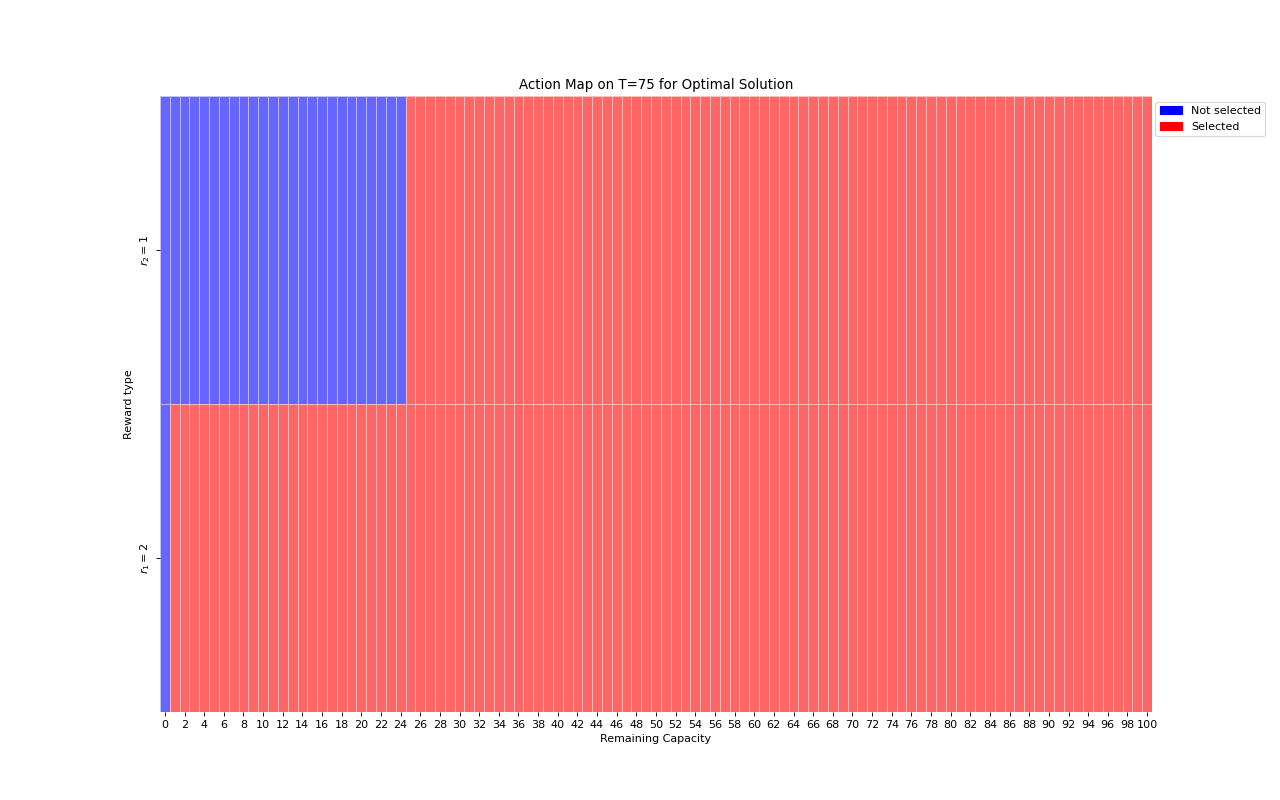
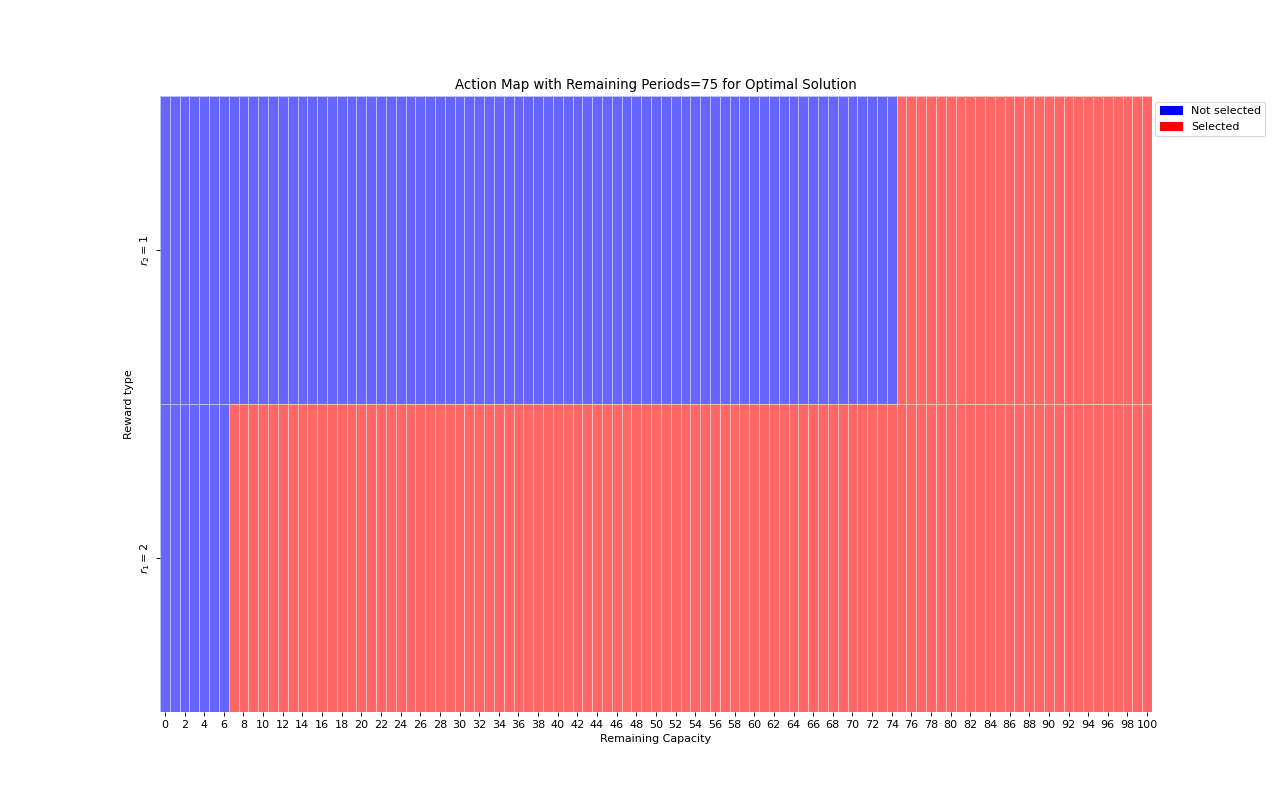
correction of heat maps for 2 types

Changed region(s): [[0.3125, 0.0938, 0.7188, 0.5312], [0.125, 0.5, 0.1875, 0.9062]]

diff --git a/Code/simulations_2_types.py b/Code/simulations_2_types.py
@@ -164,7 +164,7 @@ if __name__ == '__main__':
         sns.heatmap(df.T, cmap='bwr', cbar=False, annot=False, linewidths=0.5, alpha=0.6)
         plt.xlabel('Remaining Capacity')
         plt.ylabel('Reward type')
-        plt.title('Action Map on T='+str(t)+' for Optimal Solution')
+        plt.title('Action Map with Remaining Periods='+str(100-t)+' for Optimal Solution')
 
         import matplotlib.patches as mpatches
         min_patch = mpatches.Patch(color='blue', label='Not selected')
@@ -174,7 +174,7 @@ if __name__ == '__main__':
         path = 'C:/Users/danie/Documents/Multi-Secretary-Dyn-Approx/Figures/2_types/action_map/optimal'
         if not os.path.exists(path):
             os.makedirs(path)
-        plt.savefig(path+'/action_map_'+str(t)+'.png')
+        plt.savefig(path+'/action_map_'+str(100-t)+'.png')
         plt.clf()
         
         for dix, win in enumerate(windows_plot):   
@@ -184,7 +184,7 @@ if __name__ == '__main__':
             sns.heatmap(df.T, cmap='bwr', cbar=False, annot=False, linewidths=0.5, alpha=0.6)
             plt.xlabel('Remaining Capacity')
             plt.ylabel('Reward type')
-            plt.title('Action Map on T='+str(t)+' for n-lookahead='+str(win))
+            plt.title('Action Map with Remaining Periods='+str(100-t)+' for lookahead='+str(win))
 
             #vertical_lines = np.array([.25-.25/2, .5-.25/2, .75-.25/2, 1-.25/2])*(100-t)  # Change these indices as needed
             #for line in vertical_lines:
@@ -194,7 +194,7 @@ if __name__ == '__main__':
             max_patch = mpatches.Patch(color='red', label='Selected')
             plt.legend(handles=[min_patch, max_patch], loc='upper right', bbox_to_anchor=(1.12, 1))
 
-            path = 'C:/Users/danie/Documents/Multi-Secretary-Dyn-Approx/Figures/2_types/action_map/'+'period_'+str(t)
+            path = 'C:/Users/danie/Documents/Multi-Secretary-Dyn-Approx/Figures/2_types/action_map/'+'remaining_period_'+str(100-t)
             if not os.path.exists(path):
                 os.makedirs(path)
             plt.savefig(path+'/action_map_'+str(win)+'.png')

diff --git a/Code/multi_secretary.py b/Code/multi_secretary.py
@@ -59,7 +59,7 @@ def msecretary(val, sol_index, prob_choice, rewards, flag_computed, t, x):
 def msecretary_lookahead(val, sol_index, prob_choice, rewards,flag_computed, t, x, val_deterministic, window, depth = 0): 
     #Bellman recursion for the multi-secretary problem with n-lookahead
     if t == 0 or x == 0:
-        return 0 
+        return val[t][x] 
     if flag_computed[t][x] != 0: 
         return val[t][x]
     

diff --git a/Code/simulations_4_types.py b/Code/simulations_4_types.py
@@ -108,7 +108,7 @@ if __name__ == '__main__':
     ############################################################################################################
     ############################################################################################################
     #Action maps
-
+    
     periods_plot = [0, 25, 50, 75]
     windows_plot = [1, 5, 10, 20, 30, 40, 50, 60, 70, 80, 90, 100]
     
